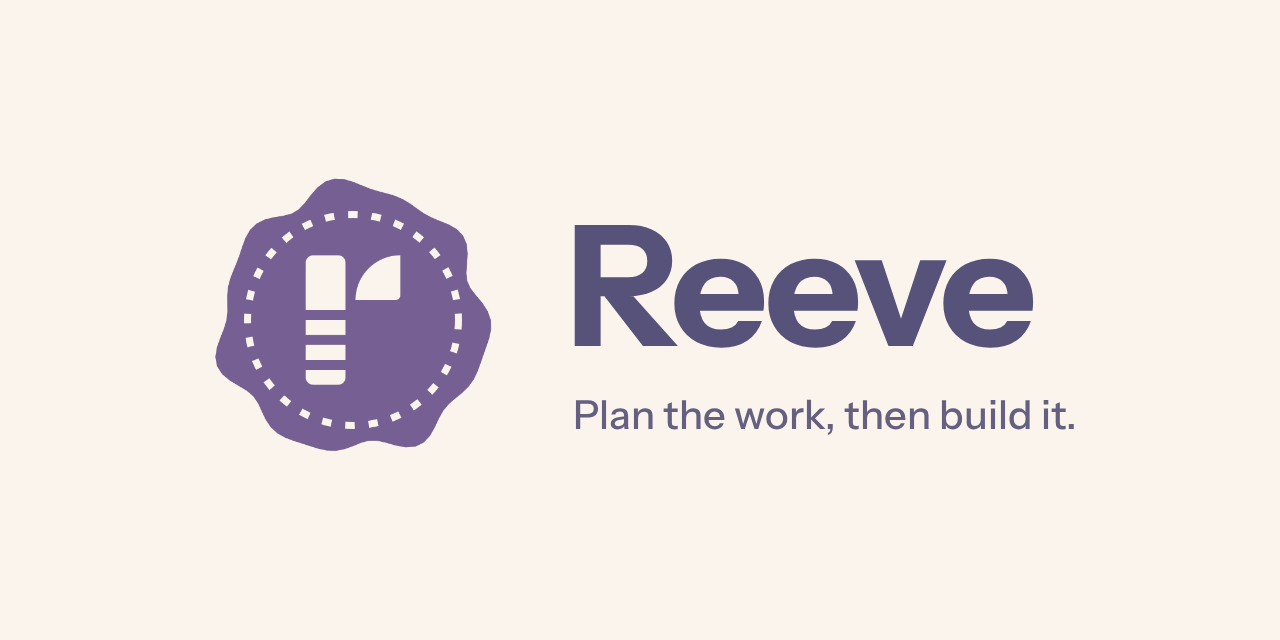
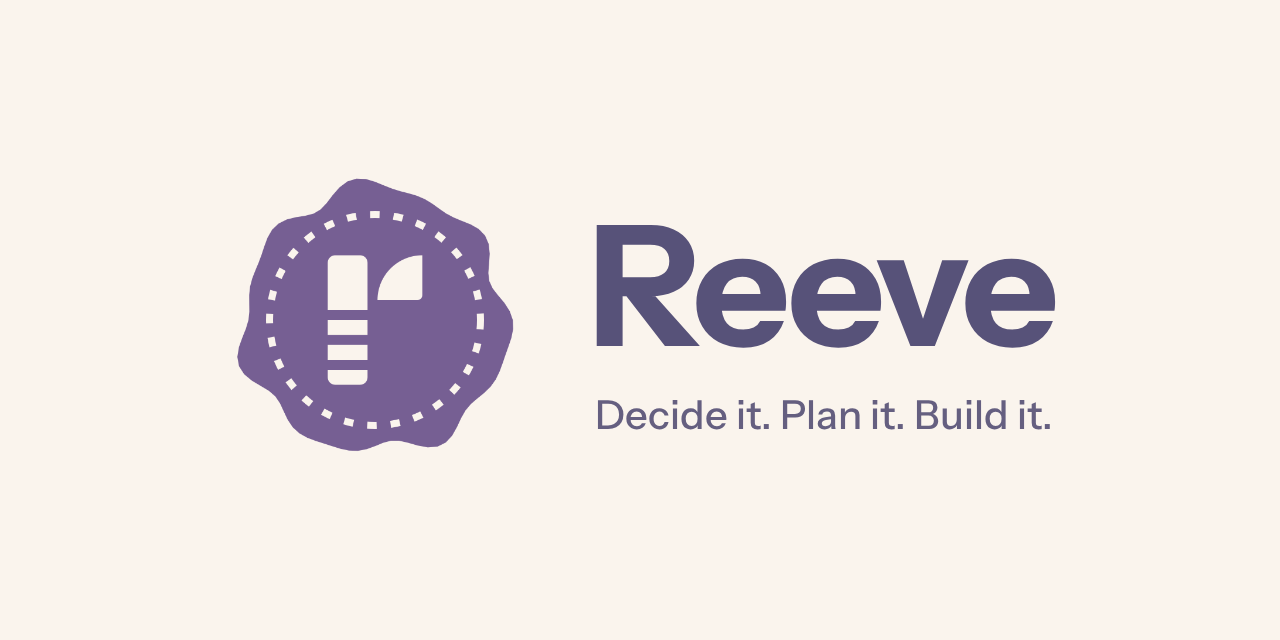
feat(web): the slogan puts decisions first
"Decide it. Plan it. Build it." replaces "Plan the work, then build it." on the sign-in page and the social card.

Changed region(s): [[0.1562, 0.2812, 0.4062, 0.7188], [0.4375, 0.3438, 0.8438, 0.5625], [0.4375, 0.625, 0.8438, 0.6875]]

diff --git a/web/src/routes/auth/signin/+page.svelte b/web/src/routes/auth/signin/+page.svelte
@@ -29,7 +29,7 @@
 <main class="signin-page">
 	<div class="card">
 		<h1 class="title"><Logo />Reeve</h1>
-		<p class="muted">Plan the work, then build it.</p>
+		<p class="muted">Decide it. Plan it. Build it.</p>
 		{#if notAllowed}
 			<p role="alert">This address is not allowed on this instance.</p>
 		{/if}

diff --git a/assets/brand/social-card.html b/assets/brand/social-card.html
@@ -29,7 +29,7 @@
 	<img src="reeve-seal-512.png" alt="">
 	<div>
 		<h1>Reeve</h1>
-		<p>Plan the work, then build it.</p>
+		<p>Decide it. Plan it. Build it.</p>
 	</div>
 </body>
 </html>
